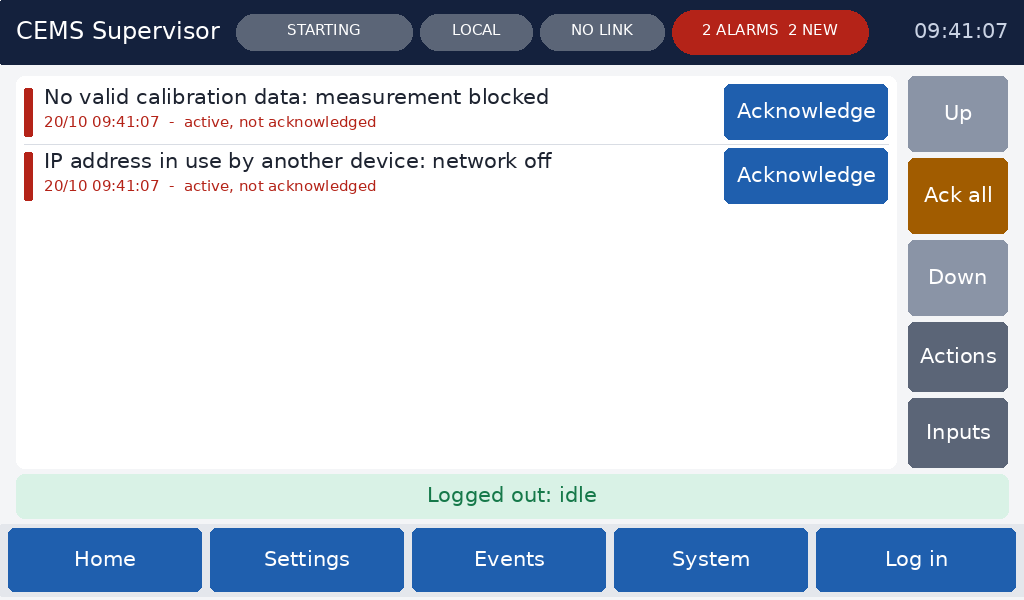
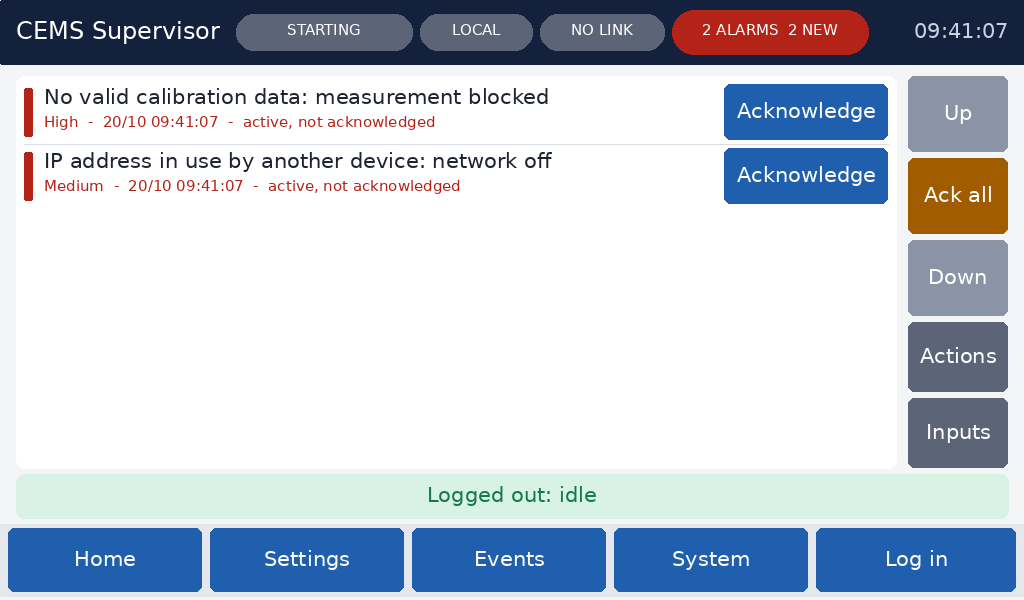
HMI: alarm priority tiers on the touchscreen
- Alarm list: each status line starts with the alarm's tier name.
- Alarms > Actions: a tier button per alarm (default*, Critical .. Info,
  Off; Off is skipped for AL_STOPS alarms). The row's colour bar
  follows the tier in force.
- Alarms > Actions > Tiers: the five tiers with their active and
  unacknowledged counts. Tap a name to rename it. Email/Modbus/R1-R4
  set the tier's actions for alarms with none of their own, and
  "Use defaults" clears them.
- Operator manual section 7 and screenshots updated; t_dia/alarm tests
  extended.

Claude-Session: https://claude.ai/code/session_01AbDXgecyAmn6R8hhL7qjD2

Changed region(s): [[0.0312, 0.18, 0.4375, 0.21], [0.0312, 0.3, 0.25, 0.33], [0.2812, 0.3, 0.4688, 0.33]]

diff --git a/platform/ui/ui.c b/platform/ui/ui.c
@@ -72,6 +72,8 @@ enum {
     T_TAB0 = 1, T_W0 = 10, T_WMAX = 118, T_DLG_YES = 120, T_DLG_NO = 121,
     T_ROW0 = 200,           /* .. T_ROW0 + ROWS - 1 */
     T_CAL_START = 210, T_CAL_ACCEPT, T_CAL_ABORT, T_CAL_REVERT,
+    T_PRIO0 = 214,          /* .. T_PRIO0 + ROWS - 1: an alarm's tier (actions page), a tier's "Use defaults" (tiers page) */
+    T_TIERS = 236,          /* actions page: open the tiers page */
     T_AL_ROW0 = 220,        /* .. T_AL_ROW0 + ROWS - 1: tap an alarm for what to check */
     T_DISP = 230, T_DT_COLOURS, T_DT_TOUCH, T_DT_NEXT, T_DT_CLEAR, T_DT_DONE,  /* display test (bench bring-up) */
     T_FORCE = 240, T_FC_CLEAR_ALL,      /* Modbus force (commissioning) */
@@ -558,6 +560,7 @@ static void cal_tap(uint8_t cmd, uint32_t now) {
 static size_t n_params(void) { return param_count(); }
 
 static bool app_tap(uint8_t t, uint32_t now);
+static int64_t pv(uint16_t id, uint16_t idx, int64_t dflt);
 static void rec_tap(uint8_t t, uint32_t now);
 /* input alarm slot U.dia_s: toggles and the cycle write at once; numbers and the label open the editor */
 static void dia_number(uint16_t id, const char *what) {
@@ -587,6 +590,24 @@ static void dia_tap(uint8_t t, uint32_t now) {
     case T_DIA_LABEL: { const param_def_t *d = param_find((uint16_t)(PARAM_ID_DIA_LABEL_FIRST + s)); if (d) edit_begin(d, now); break; }
     default: break;
     }
+    U.dirty = true;
+}
+
+/* the tiers page: rename, actions (AR_SET | bits for alarms with none of their own), back to the defaults */
+static void tier_tap(uint8_t t, uint32_t now) {
+    static const uint8_t bit[6] = { AR_EMAIL, AR_MODBUS, AR_RELAY(0), AR_RELAY(1), AR_RELAY(2), AR_RELAY(3) };
+    if (t == T_BACK) { goto_scr(UI_ALARM_CFG); return; }
+    bool name = t >= T_ROW0 && t < T_ROW0 + AL_TIERS, dflt = t >= T_PRIO0 && t < T_PRIO0 + AL_TIERS;
+    bool act = t >= T_CFG0 && t < T_CFG0 + AL_TIERS * 6;
+    if (!name && !dflt && !act) return;
+    if (U.level < PLAT_LVL_ADMIN) { toast(true, now, "Log in as admin to change the tiers"); return; }
+    if (name) { const param_def_t *d = param_find((uint16_t)(PARAM_ID_ALARM_TIER_NAME_FIRST + t - T_ROW0)); if (d) edit_begin(d, now); return; }
+    unsigned k = dflt ? (unsigned)(t - T_PRIO0) : (unsigned)(t - T_CFG0) / 6u;
+    uint8_t r = (uint8_t)pv(PARAM_ID_ALARM_TIER_ROUTE, (uint16_t)k, 0), v;
+    if (dflt) v = 0;
+    else v = (uint8_t)(AR_SET | ((r & AR_SET ? r : 0u) ^ bit[(t - T_CFG0) % 6u]));
+    param_err_t e = param_blob_post(PARAM_ID_ALARM_TIER_ROUTE, (uint16_t)k, &v, 1, false, PLAT_SRC_LOCAL, U.level);
+    if (e != PERR_OK) toast(true, now, "%s", perr_text(e));
     U.dirty = true;
 }
 
@@ -731,6 +752,18 @@ static void tap(uint8_t t, uint32_t now) {
         if (t == T_BACK) goto_scr(UI_ALARMS);
         else if (t == T_PGUP) { U.cfg_first = U.cfg_first >= ROWS ? U.cfg_first - ROWS : 0; U.dirty = true; }
         else if (t == T_PGDN) { if (U.cfg_first + ROWS < alarm_count()) U.cfg_first += ROWS; U.dirty = true; }
+        else if (t == T_TIERS) goto_scr(UI_TIERS);
+        else if (t >= T_PRIO0 && t < T_PRIO0 + ROWS) {   /* the tier: default, Critical .. Info, Off, round again */
+            const alarm_def_t *d = alarm_def_at(U.cfg_first + (unsigned)(t - T_PRIO0));
+            if (!d) break;
+            if (U.level < PLAT_LVL_ADMIN) { toast(true, now, "Log in as admin to change alarm tiers"); break; }
+            int64_t p = pv(PARAM_ID_ALARM_PRIO, d->id, 0);
+            uint8_t v = (uint8_t)(p >= AL_PRIO_DEFAULT && p < AL_PRIO_OFF ? p + 1 : AL_PRIO_DEFAULT);
+            if (v == AL_PRIO_OFF && (d->flags & AL_STOPS)) v = AL_PRIO_DEFAULT;   /* says why measurement stopped */
+            param_err_t e = param_blob_post(PARAM_ID_ALARM_PRIO, d->id, &v, 1, false, PLAT_SRC_LOCAL, U.level);
+            if (e != PERR_OK) toast(true, now, "%s", perr_text(e));
+            U.dirty = true;
+        }
         else if (t >= T_CFG0 && t < T_CFG0 + ROWS * 6) {
             unsigned r = (unsigned)(t - T_CFG0) / 6u, b = (unsigned)(t - T_CFG0) % 6u;
             const alarm_def_t *d = alarm_def_at(U.cfg_first + r);
@@ -743,6 +776,7 @@ static void tap(uint8_t t, uint32_t now) {
             U.dirty = true;
         }
         break;
+    case UI_TIERS: tier_tap(t, now); break;
     case UI_SYSTEM:
         if (t == T_CLOCK) {
             if (U.level < PLAT_LVL_ADMIN) { toast(true, now, "Log in as admin to set the clock"); break; }
@@ -1632,7 +1666,7 @@ static void draw_alarms(void) {
         } else {
             snprintf(t, sizeof t, "uptime %lu min", (unsigned long)(a->up_raise / 60u));
         }
-        snprintf(line, sizeof line, "%s  -  %s%s", t,
+        snprintf(line, sizeof line, "%.16s  -  %s  -  %s%s", alarm_prio_name(a->priority), t,
                  a->active ? (a->unacked ? "active, not acknowledged" : "active") : "cleared, not acknowledged",
                  a->active && a->unacked && (a->flags & AL_LATCH) ? " (latched)" : "");
         color(C_INK); text(44, (int16_t)(y + 18), F_TEXT, OPT_CENTERY, a->text);
@@ -1682,21 +1716,32 @@ static void draw_alarm_cfg(void) {
         if (!d) break;
         int16_t y = (int16_t)(BODY_Y + 4 + r * ROW_H);
         if (r) { color(C_LINE); eve_line(E, 24, y, 888, y, 1); }
-        alarm_view_t v;
+        alarm_view_t v = { .severity = d->severity };
         char d7[64]; size_t k = 0;
         if (alarm_get(d->id, &v))
             for (const unsigned char *p = (const unsigned char *)v.text; *p && k + 1 < sizeof d7; ++p) {
                 d7[k++] = (char)*p;                    /* UTF-8 kept: text() shows what the font has */
             }
         d7[k] = 0;
-        if (k > 42) {                                  /* the column holds ~42 characters: cut at a word */
-            size_t c = 39;
+        if (k > 30) {                                  /* the column holds ~30 characters: cut at a word */
+            size_t c = 27;
             while (c > 20 && d7[c] != ' ') c--;
             strcpy(d7 + c, "...");
         }
-        box(24, (int16_t)(y + 8), 8, ROW_H - 16, sev_colour(d->severity), 2);
+        uint8_t pr = alarm_prio(d->id);
+        box(24, (int16_t)(y + 8), 8, ROW_H - 16, pr == AL_PRIO_OFF ? C_GREY : sev_colour(v.severity), 2);
         color(C_INK); text(40, (int16_t)(y + 20), F_SMALL, OPT_CENTERY, d7);
         color(C_MUTE); text(40, (int16_t)(y + 44), F_SMALL, OPT_CENTERY, d->name);
+        {   /* the tier: a tap moves to the next; "(default)" when it is the definition's own */
+            char tl[32];
+            uint8_t tg = (uint8_t)(T_PRIO0 + r);
+            snprintf(tl, sizeof tl, "%.16s%s", alarm_prio_name(pr), pv(PARAM_ID_ALARM_PRIO, d->id, 0) ? "" : "*");
+            eve_tag(E, can ? tg : 0);
+            eve_fgcolor(E, U.pressed == tg ? C_PRESS : pr == AL_PRIO_OFF ? 0xB8C0CCu : 0x5B6577u);
+            color(0xFFFFFFu);
+            ebutton(300, (int16_t)(y + 6), 132, ROW_H - 12, F_SMALL, OPT_FLAT, tl);
+            eve_tag(E, 0);
+        }
         uint8_t rt = alarm_route(d->id);
         for (int b = 0; b < 6; ++b) {
             bool on = (rt & bit[b]) != 0;
@@ -1709,9 +1754,58 @@ static void draw_alarm_cfg(void) {
             eve_tag(E, 0);
         }
     }
-    button(T_PGUP, 908, BODY_Y, 100, 120, "Up", C_ACCENT, U.cfg_first > 0);
-    button(T_BACK, 908, BODY_Y + 132, 100, 120, "Back", 0x5B6577u, true);
-    button(T_PGDN, 908, BODY_Y + 264, 100, 128, "Down", C_ACCENT, U.cfg_first + ROWS < n);
+    button(T_PGUP, 908, BODY_Y, 100, 92, "Up", C_ACCENT, U.cfg_first > 0);
+    button(T_PGDN, 908, BODY_Y + 100, 100, 92, "Down", C_ACCENT, U.cfg_first + ROWS < n);
+    button(T_TIERS, 908, BODY_Y + 200, 100, 92, "Tiers", 0x5B6577u, true);
+    button(T_BACK, 908, BODY_Y + 300, 100, 92, "Back", 0x5B6577u, true);
+    if (!can) { color(C_MUTE); text(456, TOAST_Y + 22, F_SMALL, OPT_CENTER, "Green = on. * = the alarm's default tier. Log in as admin to change."); }
+}
+
+/* priority tiers: name (tap to rename), what is active, and the actions for alarms with none of their own */
+static void draw_tiers(void) {
+    static const char *const lab[6] = { "Email", "Modbus", "R1", "R2", "R3", "R4" };
+    static const uint8_t bit[6] = { AR_EMAIL, AR_MODBUS, AR_RELAY(0), AR_RELAY(1), AR_RELAY(2), AR_RELAY(3) };
+    static const uint8_t sev[AL_TIERS] = { AL_SEV_FAULT, AL_SEV_FAULT, AL_SEV_ALARM, AL_SEV_WARNING, AL_SEV_STATUS };
+    bool can = U.level >= PLAT_LVL_ADMIN;
+    box(16, BODY_Y, 880, AL_TIERS * ROW_H + 8, C_CARD, 8);
+    for (unsigned k = 0; k < AL_TIERS; ++k) {
+        int16_t y = (int16_t)(BODY_Y + 4 + (int)k * ROW_H);
+        uint8_t tg = (uint8_t)(T_ROW0 + k);
+        eve_tag(E, tg);
+        box(20, (int16_t)(y + 2), 272, ROW_H - 4, U.pressed == tg ? 0xDCE6F5u : C_CARD, 4);
+        if (k) { color(C_LINE); eve_line(E, 24, y, 888, y, 1); }
+        box(24, (int16_t)(y + 8), 8, ROW_H - 16, sev_colour(sev[k]), 2);
+        char b[64];
+        snprintf(b, sizeof b, "%u  %.16s", k + 1u, alarm_prio_name((uint8_t)(k + 1u)));
+        color(C_INK); text(40, (int16_t)(y + 20), F_TEXT, OPT_CENTERY, b);
+        snprintf(b, sizeof b, "%u active, %u not acknowledged", (unsigned)pv(PARAM_ID_ALARM_TIER_ACTIVE, (uint16_t)k, 0),
+                 (unsigned)pv(PARAM_ID_ALARM_TIER_UNACKED, (uint16_t)k, 0));
+        color(C_MUTE); text(40, (int16_t)(y + 44), F_SMALL, OPT_CENTERY, b);
+        eve_tag(E, 0);
+        uint8_t r = (uint8_t)pv(PARAM_ID_ALARM_TIER_ROUTE, (uint16_t)k, 0);
+        bool set = (r & AR_SET) != 0;
+        if (set) {                                     /* back to each alarm's own default */
+            uint8_t td = (uint8_t)(T_PRIO0 + k);
+            eve_tag(E, can ? td : 0);
+            eve_fgcolor(E, U.pressed == td ? C_PRESS : 0x5B6577u);
+            color(0xFFFFFFu);
+            ebutton(300, (int16_t)(y + 6), 132, ROW_H - 12, F_SMALL, OPT_FLAT, "Use defaults");
+            eve_tag(E, 0);
+        } else { color(C_MUTE); text(366, (int16_t)(y + 32), F_SMALL, OPT_CENTER, "alarm defaults"); }
+        for (int j = 0; j < 6; ++j) {
+            bool on = set && (r & bit[j]) != 0;
+            uint8_t tb = (uint8_t)(T_CFG0 + k * 6 + (unsigned)j);
+            eve_tag(E, can ? tb : 0);
+            eve_fgcolor(E, U.pressed == tb ? C_PRESS : on ? C_OK : 0xB8C0CCu);
+            color(0xFFFFFFu);
+            ebutton((int16_t)(440 + j * 75), (int16_t)(y + 6), 70, ROW_H - 12, F_SMALL, OPT_FLAT, lab[j]);
+            eve_tag(E, 0);
+        }
+    }
+    color(C_MUTE);
+    text(32, (int16_t)(BODY_Y + AL_TIERS * ROW_H + 30), F_SMALL, OPT_CENTERY,
+         "A tier's actions apply to alarms whose own actions were never changed. Tap a name to rename it.");
+    button(T_BACK, 908, BODY_Y, 100, 120, "Back", 0x5B6577u, true);
     if (!can) { color(C_MUTE); text(456, TOAST_Y + 22, F_SMALL, OPT_CENTER, "Green = on. Log in as admin to change."); }
 }
 
@@ -2444,6 +2538,7 @@ void ui_draw(eve_t *e, uint32_t now) {
     case UI_SYSTEM: draw_system(now); break;
     case UI_ALARMS: draw_alarms(); break;
     case UI_ALARM_CFG: draw_alarm_cfg(); break;
+    case UI_TIERS: draw_tiers(); break;
     case UI_CLOCK: draw_clock(); break;
     case UI_APP:   draw_app(); break;
     case UI_REC:   draw_rec(); break;

diff --git a/tests/test_ui.c b/tests/test_ui.c
@@ -24,6 +24,8 @@
 #include "log_csv.h"
 #include "plat_alarm.h"
 #include "plat_clock.h"
+
+extern uint8_t plat_alarm_tier_route[AL_TIERS];
 #include "iobus.h"
 #include "iob_node_sim.h"
 #include "plat_state.h"
@@ -462,8 +464,37 @@ static void t_ui(void) {
     CHECK_EQ(alarm_route(ALARM_ID_CAL_INVALID), AR_EMAIL | AR_MODBUS | AR_RELAY(0));
     CHECK(tap("Email"));                                               /* and email off */
     CHECK_EQ(alarm_route(ALARM_ID_CAL_INVALID), AR_MODBUS | AR_RELAY(0));
+    /* priority tiers (Gary 31 Oct): a tap on the tier moves to the next; * marks the alarm's default */
+    CHECK_EQ(alarm_prio(ALARM_ID_CAL_INVALID), AL_PRIO_HIGH);         /* a fault: High by default */
+    CHECK(tap("High*"));                                               /* first row: default -> Critical */
+    CHECK_EQ(alarm_prio(ALARM_ID_CAL_INVALID), AL_PRIO_CRITICAL);
+    CHECK(tap("Critical"));                                            /* -> High, set by hand: no star */
+    CHECK_EQ(alarm_prio(ALARM_ID_CAL_INVALID), AL_PRIO_HIGH);
+    CHECK(shows("High"));
     dump("alarm_actions");
+    for (int k = 0; k < 4; ++k) press((uint8_t)eve_sim_tag_of(&sim, alarm_prio_name(alarm_prio(ALARM_ID_CAL_INVALID))));
+    CHECK_EQ(alarm_prio(ALARM_ID_CAL_INVALID), AL_PRIO_OFF);           /* Medium, Low, Info, Off */
+    CHECK(tap("Off"));                                                 /* and round to the default again */
+    CHECK_EQ(alarm_prio(ALARM_ID_CAL_INVALID), AL_PRIO_HIGH);
+    CHECK(shows("High*"));
+    CHECK(tap("Tiers")); CHECK_EQ(ui_screen(), UI_TIERS);
+    CHECK(shows("1  Critical")); CHECK(shows("5  Info")); CHECK(shows("alarm defaults"));
+    CHECK(tap("Email"));                                               /* tier 1: email for alarms with no actions of their own */
+    CHECK_EQ(plat_alarm_tier_route[0], AR_SET | AR_EMAIL);
+    CHECK(shows("Use defaults"));
+    CHECK(tap("2  High"));                                             /* rename tier 2 */
+    CHECK_EQ(ui_screen(), UI_EDIT);
+    type("Urgent"); CHECK(tap("OK"));
+    CHECK_EQ(ui_screen(), UI_TIERS);
+    CHECK(!strcmp(alarm_prio_name(AL_PRIO_HIGH), "Urgent"));
+    CHECK(shows("2  Urgent"));
+    dump("alarm_tiers");
+    CHECK(tap("Use defaults"));
+    CHECK_EQ(plat_alarm_tier_route[0], 0);
+    CHECK(tap("Back")); CHECK_EQ(ui_screen(), UI_ALARM_CFG);
+    CHECK(shows("Urgent"));
     CHECK(tap("Back")); CHECK_EQ(ui_screen(), UI_ALARMS);
+    CHECK(shows("Urgent  -  "));                                       /* the list names each alarm's tier */
     CHECK(tap("Log out admin"));
     { log_event_t ev = { .code = LOG_EV_IP_CONFLICT, .arg = 0xC0A80132u, .new_v = 1.0, .old_v = NAN };
       char w[32], dt[64]; log_event_text(&ev, w, sizeof w, dt, sizeof dt);

diff --git a/platform/include/ui.h b/platform/include/ui.h
@@ -41,7 +41,8 @@ enum { UI_HOME = 0, UI_PARAMS, UI_EDIT, UI_LOGIN, UI_EVENTS, UI_SYSTEM, UI_ALARM
        UI_DISPLAY,  /* display test for bench bring-up: controller status, colour patterns, touch test */
        UI_FORCE,    /* Modbus force for commissioning: forceable values, force for 30 s, clear (modbus.h) */
        UI_DIA,      /* input alarms: the 24 digital-input alarm slots (plat_alarm.h) */
-       UI_DIA_SLOT };   /* one input alarm slot: input, when, delay, latch, severity, label */
+       UI_DIA_SLOT,     /* one input alarm slot: input, when, delay, latch, severity, label */
+       UI_TIERS };      /* alarm priority tiers: names, actions, counts (plat_alarm.h) */
 
 void    ui_init(const ui_cfg_t *cfg, uint32_t now_ms);
 void    ui_input(uint8_t tag, uint32_t now_ms);     /* the tag under the finger now (0 = none); every 10..20 ms */

diff --git a/docs/OPERATOR_MANUAL.md b/docs/OPERATOR_MANUAL.md
@@ -113,7 +113,11 @@ A coloured bar on the left gives the severity.
 - **Acknowledge** acknowledges one alarm. **Ack all** acknowledges every alarm. Neither needs a login.
 - An alarm that has cleared stays in the list until it is acknowledged. A latched alarm stays active until it is acknowledged.
 - **Tap an alarm** to see "What to check" for it. Tap it again to close that.
-- **Actions** (admin) sets what each alarm does: email, Modbus, and relays 1 to 4.
+- Each row's status line starts with the alarm's **priority tier**: Critical, High, Medium, Low or Info (or the names set for your site). The list is sorted by tier, most urgent first.
+- **Actions** (admin) sets each alarm's tier and what it does: email, Modbus, and relays 1 to 4.
+  - **The tier button**: each tap moves to the next tier: Critical, High, Medium, Low, Info, Off, then back to the alarm's own default. A star (*) means the alarm is on its default tier. Off takes the alarm out of the list, the counts and the actions. Alarms that stop measurement can't be switched off.
+  - **The action buttons** (green = on): changing one gives the alarm its own actions. Until then it follows its tier's actions, if the tier has any, or its built-in default.
+  - **Tiers** opens the tier page. Each tier shows how many of its alarms are active and how many are not acknowledged. Tap a tier's name to rename it, up to 16 characters. The action buttons set what that tier's alarms do when they have no actions of their own, and **Use defaults** clears them.
 
 - **Inputs** (admin) sets up the input alarms (see 7a).
 
